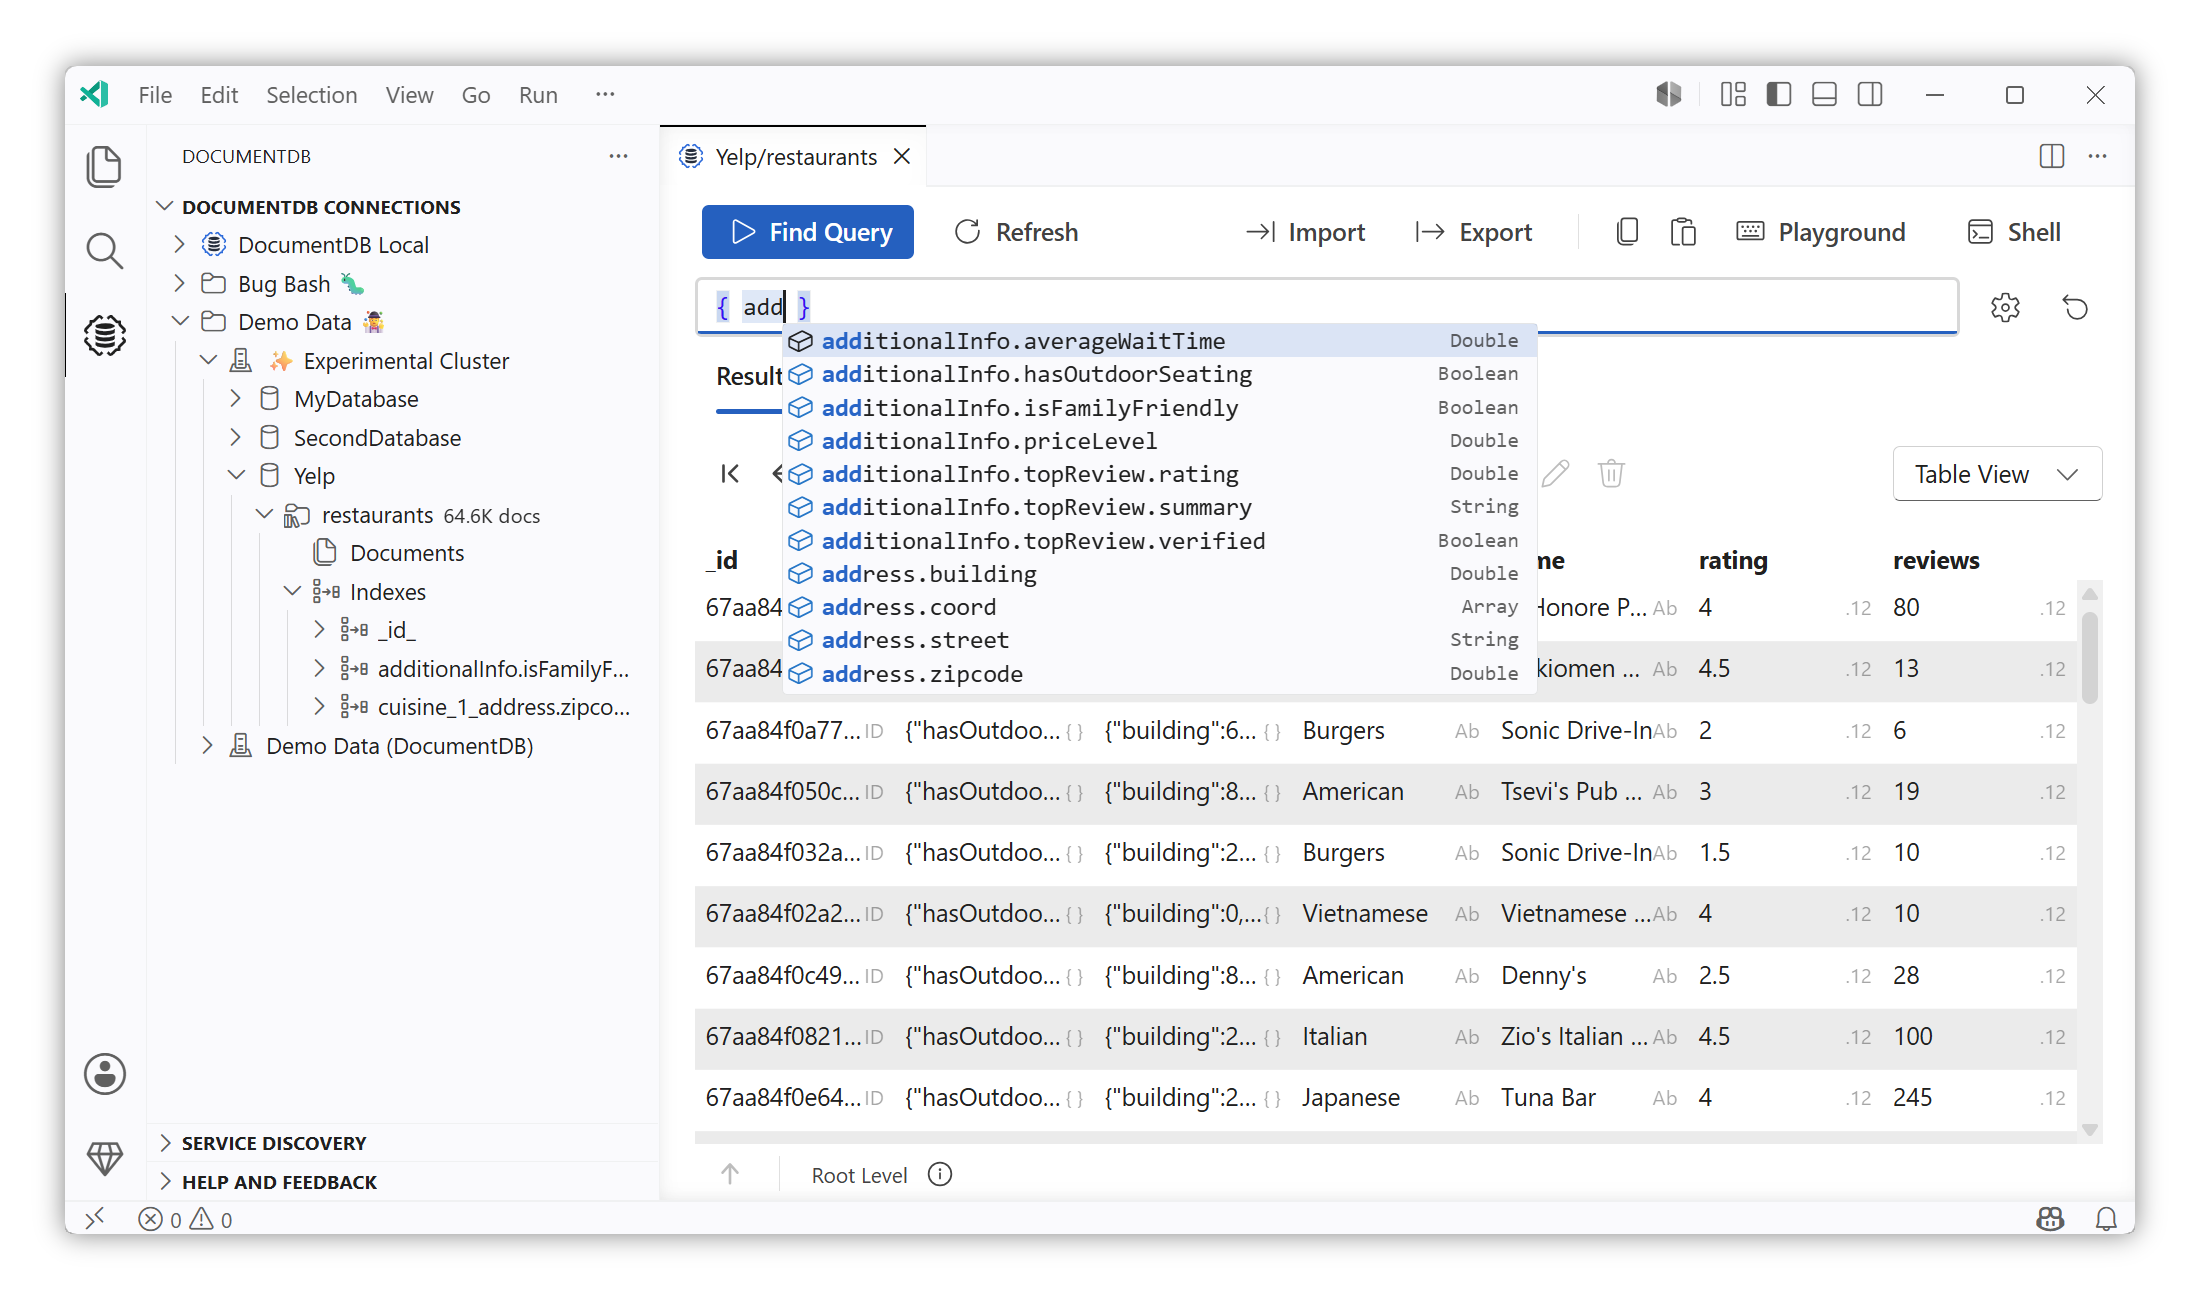
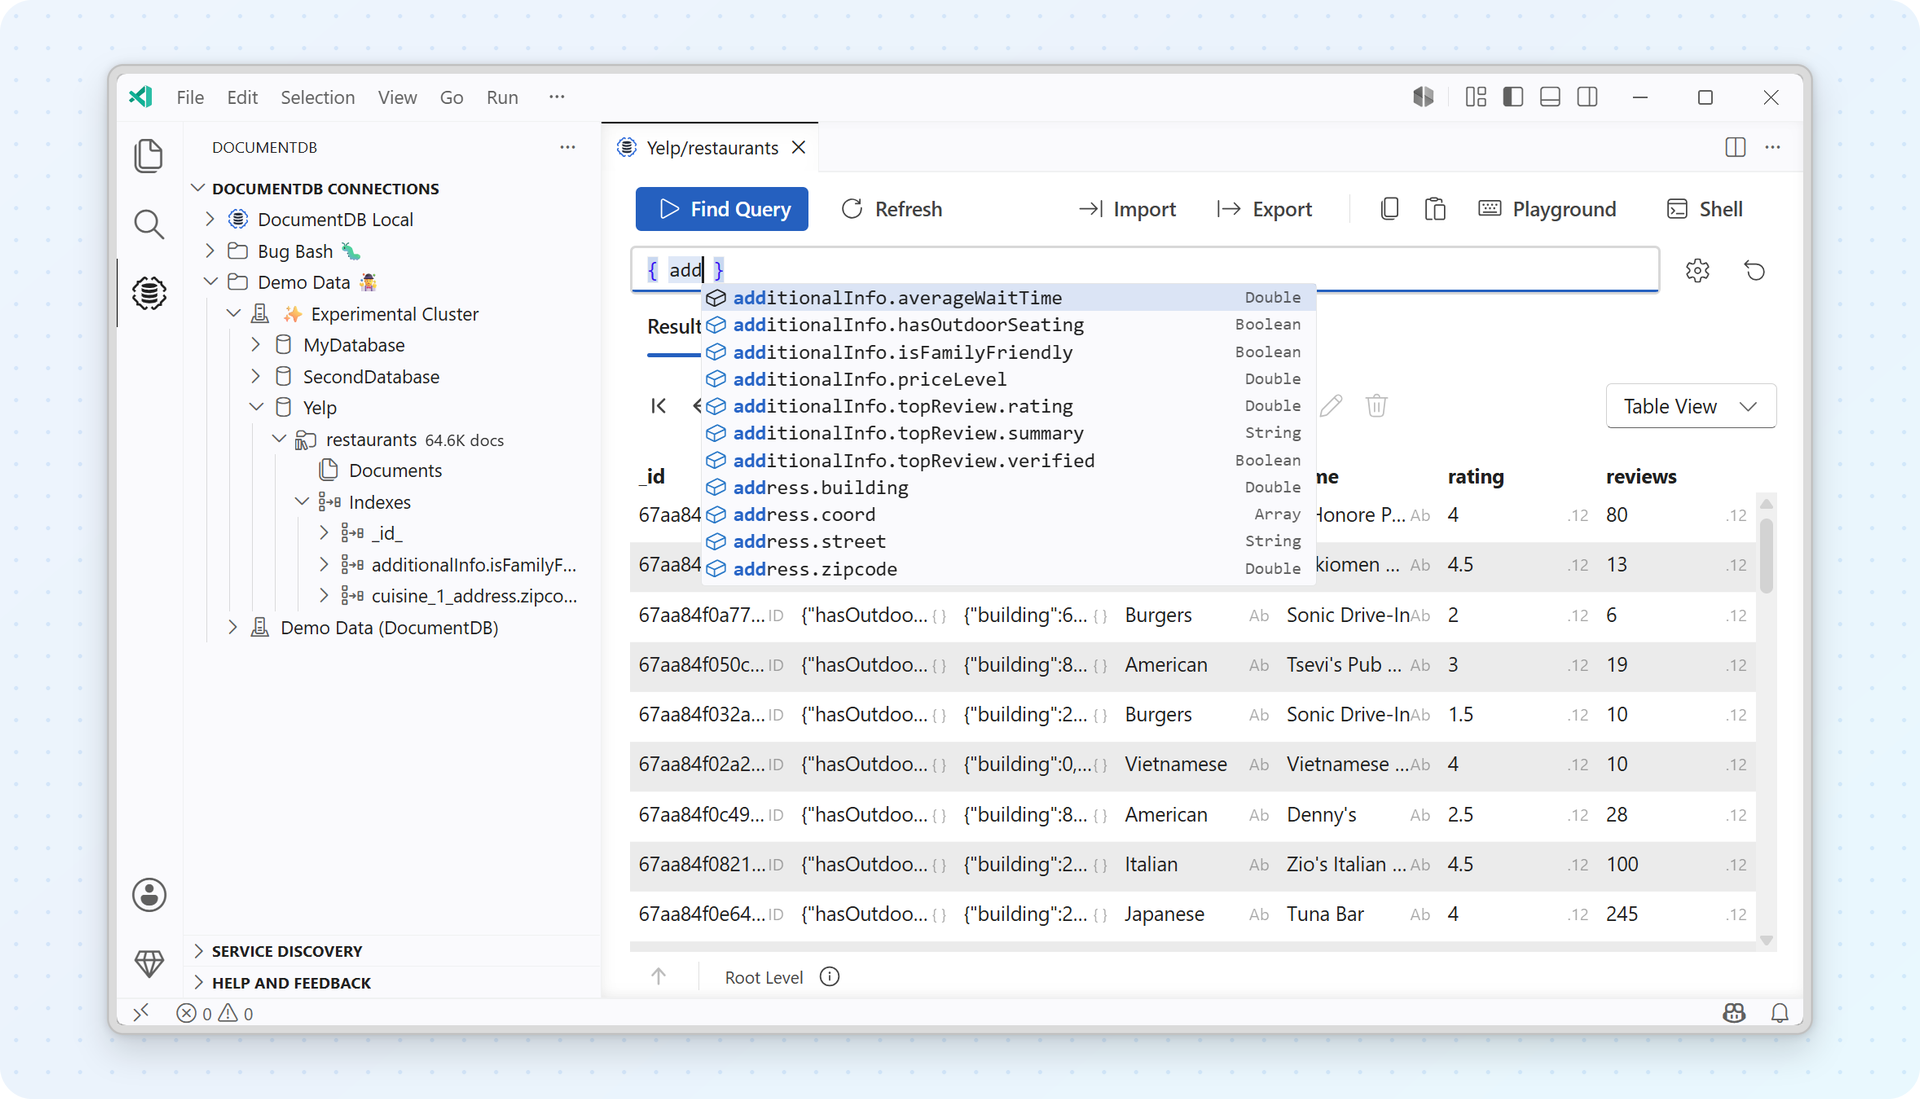
docs: frame historical migration illustration and documentation hero
Apply the shared visual style to the v0.7 migration illustration and documentation hero. Preserve content, filenames and alt text, and normalize both image references to width 800. Leave the DocumentDB logo unchanged.

diff --git a/docs/release-notes/0.7.md b/docs/release-notes/0.7.md
@@ -14,7 +14,7 @@ It includes **Lightweight Data Migration** for collection copying, adds **Folder
 
 We're introducing **Lightweight Data Migration** (also known as "**Collection Copy-and-Paste**"). This feature enables you to copy collections and paste them into new or existing collections, across different databases or even different servers - all directly within VS Code.
 
-<p align="center"><img src="./images/0.7.0_copy_and_paste.png" alt="Lightweight Data Migration Overview" width="350" style="max-width:100%;height:auto;"></p>
+<p align="center"><img src="./images/0.7.0_copy_and_paste.png" alt="Lightweight Data Migration Overview" width="800" style="max-width:100%;height:auto;"></p>
 
 Designed for **smaller-to-medium datasets** that can be streamed through your local machine, this feature simplifies moving data between environments. It's useful for:
 

diff --git a/docs/index.md b/docs/index.md
@@ -12,7 +12,7 @@
 
 **DocumentDB for VS Code** helps you browse, manage, and query **DocumentDB** and **MongoDB** databases across any cloud, hybrid, or local environment.
 
-![DocumentDB with a Collection View and auto-completion](./vscode-documentdb-hero-screenshot.png)
+<p align="center"><img src="./vscode-documentdb-hero-screenshot.png" alt="DocumentDB with a Collection View and auto-completion" width="800" style="max-width:100%;height:auto;"></p>
 
 # Features
 
